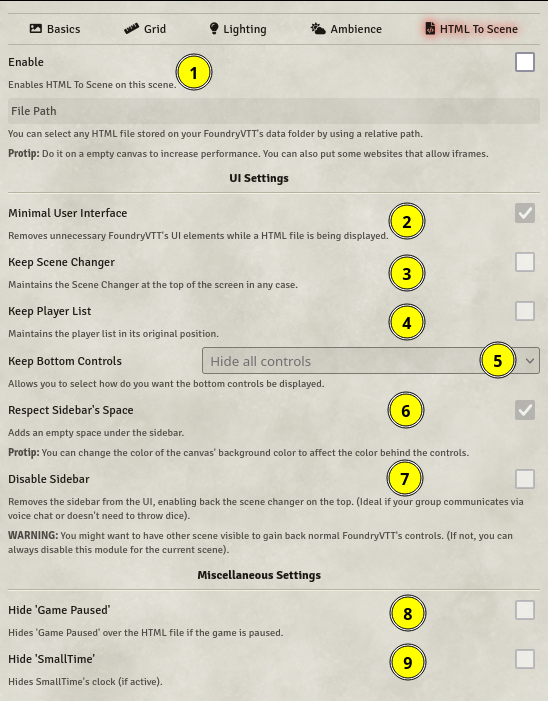
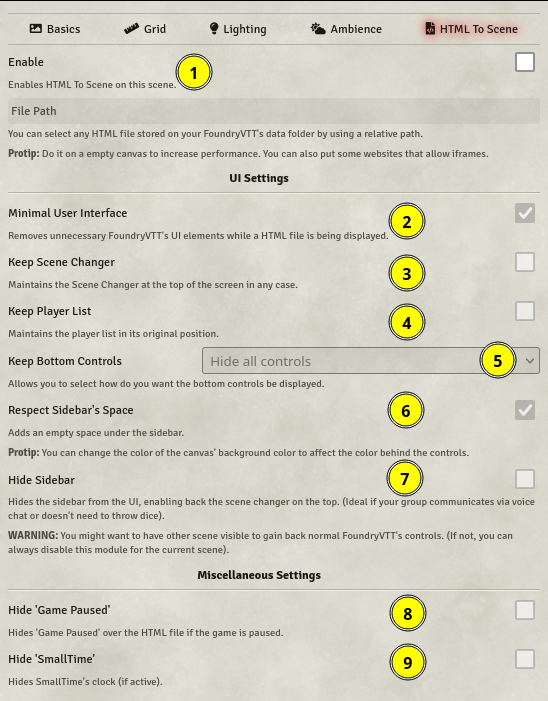
v1.2.5 retroactive changes

Changed region(s): [[0.031, 0.6591, 0.8376, 0.7489], [0.8686, 0.689, 0.9617, 0.719]]

diff --git a/README.md b/README.md
@@ -28,7 +28,7 @@ Here is the full list of options. Including those not included in the image.
 |4|Keep Player List|The same, but for the player list.|
 |5|Keep Bottom Controls|The same, but this one allows you to select if you want to show any combination of the following: the macro hotbar, cameras, FoundryVTT's fps meter (Keep in mind that the fps meter given by Foundry doesn't have to be fully accurate to the fps of the iframe).|
 |6|Respect Sidebar's Space| Changes the iframe size to create an empty space under the sidebar.
-|7|Disable Sidebar| Removes the sidebar from the UI. It will enable the Scene Changer back to allow you some way of going back. |
+|7|Hide Sidebar| Hides the sidebar from the UI. It will enable the Scene Changer back to allow you some way of going back. |
 |8|Hide 'Game Paused' | Hides the 'Game Paused' when enabled |
 |9|Hide 'SmallTime' | Hides [unsoluble's SmallTime clock](https://github.com/unsoluble/smalltime) (if active) |
 |-|Hide FoundryVTT's Board| Hides FoundryVTT's canvas (the board). Using `display:none` to gain some performace. |
